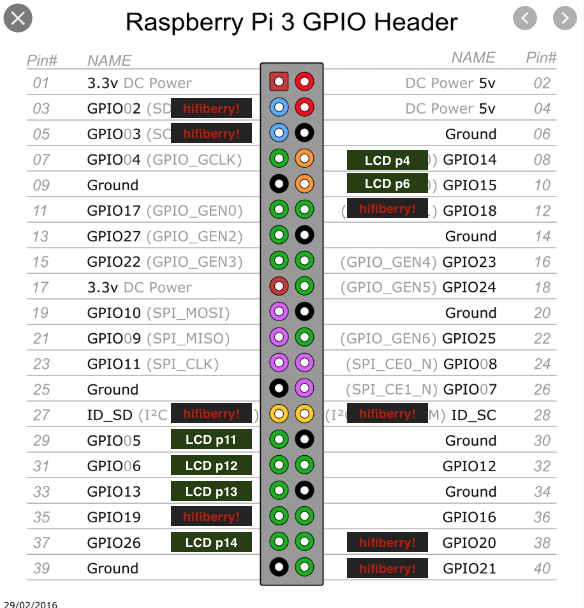
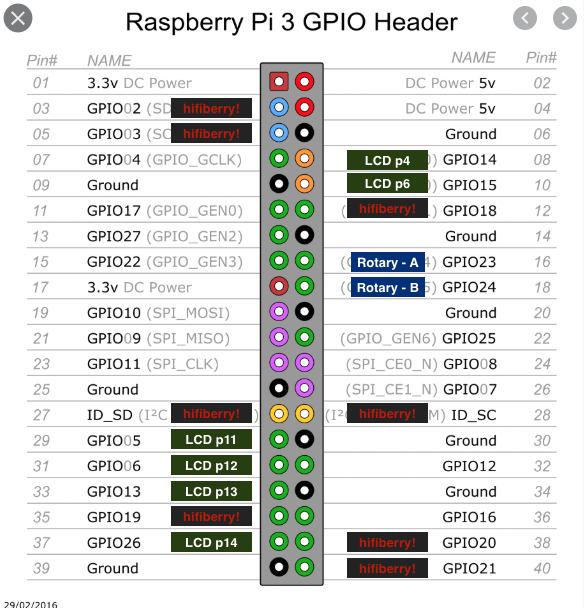
adding some small features to lcd

Changed region(s): [[0.5856, 0.4062, 0.7397, 0.5]]

diff --git a/src/lcd.ts b/src/lcd.ts
@@ -1,0 +1,66 @@
+import { Subject } from "rxjs";
+import { filter, tap } from "rxjs/operators";
+import * as Lcd from "lcd";
+
+export interface LcdMessage {
+  message: string;
+  row?: number;
+  column?: number;
+}
+
+const lcd = new Lcd({ rs: 14, e: 15, data: [5, 6, 13, 26], cols: 8, rows: 2 });
+let cancelled = false;
+let ready = false;
+
+const printTasks: LcdMessage[] = [];
+
+async function setupLCD() {
+  return new Promise(resolve => {
+    lcd.on("ready", () => {
+      ready = true;
+      resolve();
+    });
+  });
+}
+
+async function asyncPrint(value) {
+  return new Promise((resolve, reject) => {
+    lcd.print(value, err => {
+      if (!err) {
+        resolve();
+      } else {
+        reject(err);
+      }
+    });
+  });
+}
+
+export function printToLCD(lcdMessage: LcdMessage) {
+  printTasks.push(lcdMessage);
+}
+
+export function cleanupLcd() {
+  cancelled = true;
+  lcd.close();
+}
+
+async function processLCD() {
+  if (cancelled === true) {
+    return;
+  }
+  if (ready === false) {
+    await setupLCD();
+  }
+  const messageToPrint = printTasks.shift();
+  if (messageToPrint) {
+    const { column = 0, row = 0, message } = messageToPrint;
+    // First position cursor
+    lcd.setCursor(column, row);
+    // Next, print message
+    await asyncPrint(message);
+  }
+  // Process next LCD in 50ms
+  setTimeout(() => processLCD(), 50);
+}
+
+processLCD();

diff --git a/src/rotary-encoder.ts b/src/rotary-encoder.ts
@@ -1,0 +1,46 @@
+import { Observable } from "rxjs";
+const Gpio = require("onoff").Gpio;
+
+export function rotaryEncoder(pin1: number, pin2: number): Observable<number> {
+  const observableToReturn: Observable<number> = Observable.create(function(
+    observer
+  ) {
+    const button1 = new Gpio(pin1, "in", "both");
+    const button2 = new Gpio(pin2, "in", "both");
+    let a = 0;
+    let b = 0;
+    let v = 0;
+
+    function exit() {
+      button1.unexport();
+      process.exit();
+    }
+
+    //Watch for hardware interrupt of switch 1
+    button1.watch(function(err, value) {
+      if (err) {
+        throw err;
+      }
+      a = value;
+    });
+
+    //Watch for hardware interrupt of switch 2
+    button2.watch(function(err, value) {
+      if (err) {
+        throw err;
+      }
+      b = value;
+
+      //only evaluate if a = 1
+      if (a == 1 && b == 1) {
+        // observer.next(1);
+        v++;
+      } else if (a == 1 && b == 0) {
+        // observer.next(-1);
+        v--;
+      }
+      observer.next(v);
+    });
+  });
+  return observableToReturn;
+}

diff --git a/src/main.ts b/src/main.ts
@@ -1,0 +1,19 @@
+import { rotaryEncoder } from "./rotary-encoder";
+import { cleanupLcd, printToLCD } from "./lcd";
+
+rotaryEncoder(23, 24).subscribe(v => {
+  printToLCD({ message: "".repeat(16), row: 1 });
+  printToLCD({ message: v.toString(), row: 1 });
+});
+
+setInterval(() => {
+  printToLCD({
+    message: new Date().toISOString().substring(11, 19)
+  });
+}, 1000);
+
+// If ctrl+c is hit, free resources and exit.
+process.on("SIGINT", _ => {
+  cleanupLcd();
+  process.exit();
+});
